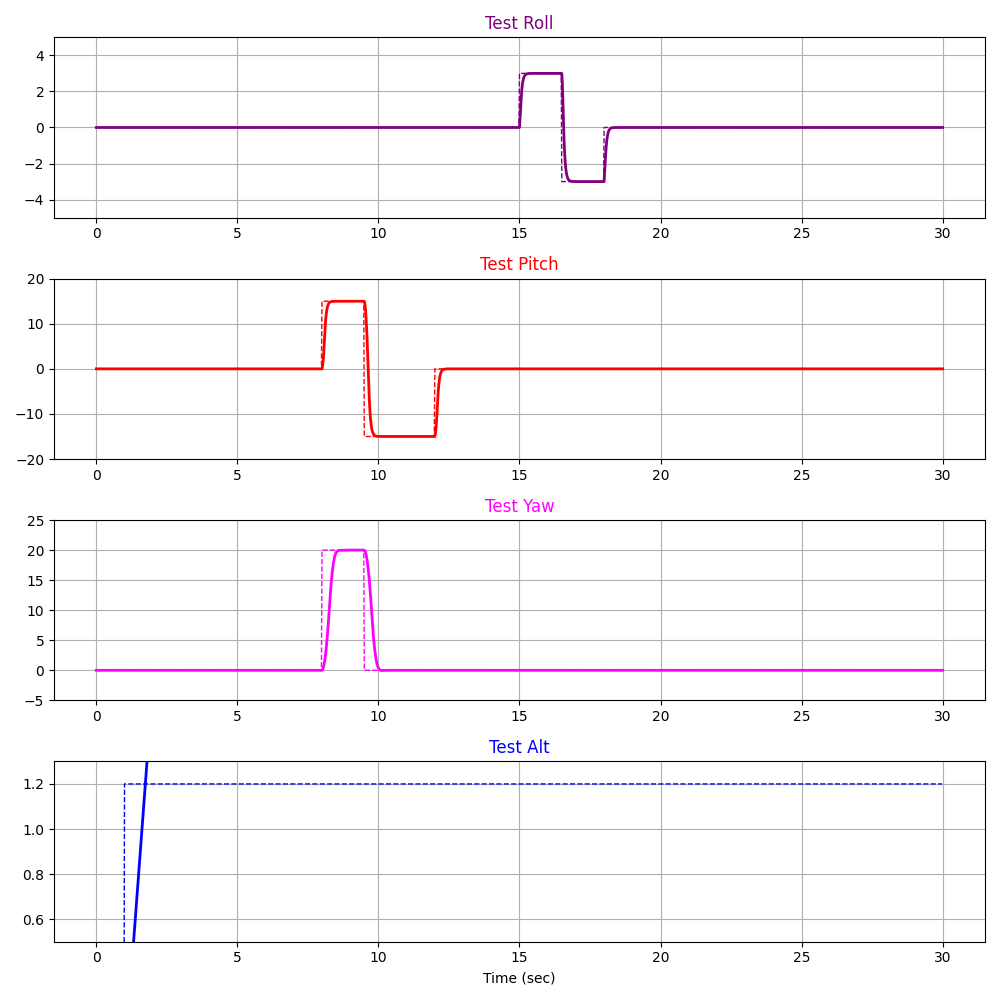
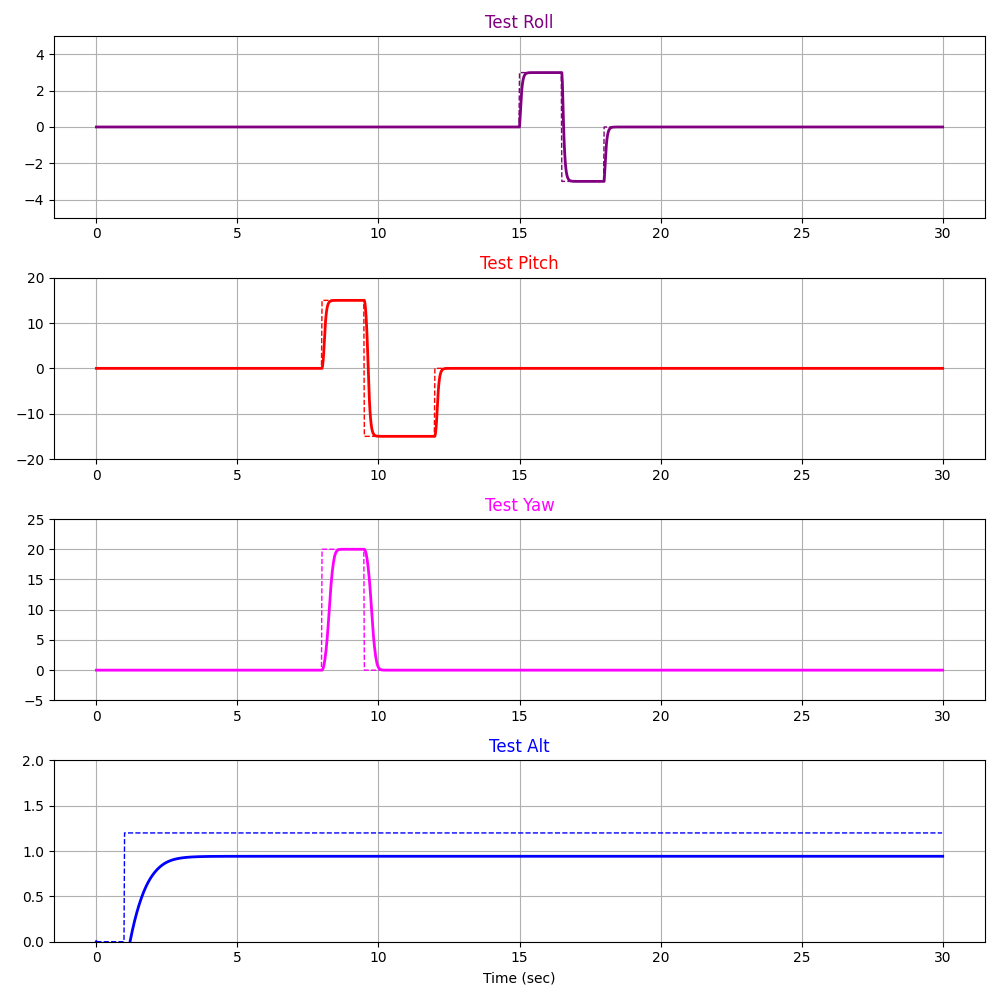
changed gravity parameter

diff --git a/MPC.py b/MPC.py
@@ -215,7 +215,7 @@ def simulate_test_scenario(total_time=30.0):
         gravity_acc = -9.81
         
         # Actualizar velocidades
-        next_state[1] += dt * (control[0] / mpc.m)
+        next_state[1] += dt * (control[0] / mpc.m - mpc.g) 
  # dz (aceleración vertical)
         next_state[3] += dt * control[1] / mpc.Ixx  # droll
         next_state[5] += dt * control[2] / mpc.Iyy  # dpitch
@@ -279,7 +279,7 @@ def plot_results(time_points, states, references):
     axs[3].plot(time_points, states[:, 0], 'blue', linewidth=2)
     axs[3].plot(ref_time_points, references[:, 0], 'blue', linestyle='--', linewidth=1)
     axs[3].set_title('Test Alt', color='blue')
-    axs[3].set_ylim(0.5, 1.3)
+    axs[3].set_ylim(0, 2.0)
     axs[3].grid(True)
     
     axs[3].set_xlabel('Time (sec)')
